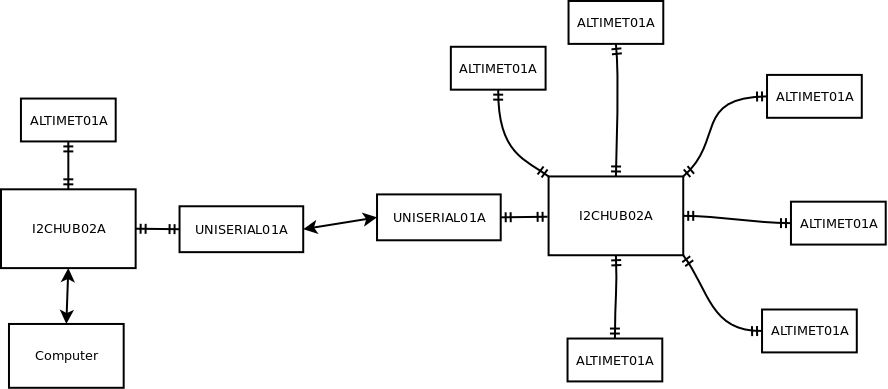
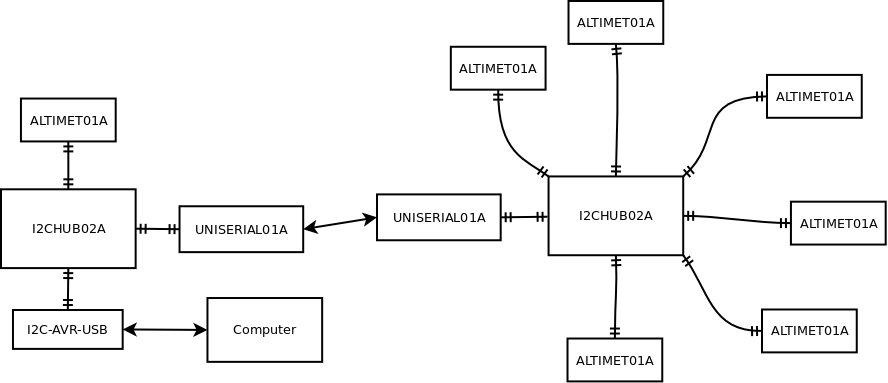
opravy nekterych chyb v nazvech.

diff --git a/Modules/Sensors/ALTIMET01A/DOC/SRC/testing.cs.tex b/Modules/Sensors/ALTIMET01A/DOC/SRC/testing.cs.tex
@@ -36,7 +36,7 @@ Při realizaci projektu ABL01A bylo zjištěno, že snímání tlaku z čidla MP
 
 \section{Popis konstrukce}
 
-Realizace testovacího systému pro čidlo MPL3115A2 využívá modulu I2CHUB02A, který umožňuje testování více čidel najednou. Čidla jsou tak společně umístěna ve vakuovém zvonu s řízeným tlakem a naměřené tlaky jsou společně s teplotami vyčítány I$^2$C sběrnici. Sběrnice I$^2$C byla z řídícího počítače vyvedena přes převodník USB-AVR-i2c. 
+Realizace testovacího systému pro čidlo MPL3115A2 využívá modulu I2CHUB02A, který umožňuje testování více čidel najednou. Čidla jsou tak společně umístěna ve vakuovém zvonu s řízeným tlakem a naměřené tlaky jsou společně s teplotami vyčítány I$^2$C sběrnici. Sběrnice I$^2$C byla z řídícího počítače vyvedena přes převodník i2c-avr-USB \cite{i2c-avr-USB}. 
 Paralelně k hodnotám získaných z modulů ALTIMET je z řídícího počítače ještě vyčítán tlak měřený z referenčního měřícího přístroje DPI 145. 
 
 Měřící přístroj DPI 145 byl do systému zapojen přes rozhraní RS232 za použití převodníku  RS232-USB. Nastavení komunikace je Parity=none, Speed=9600, Handshaking=none. (Způsob nastavení je možné nalézt v návodu k DPI145). 
@@ -112,12 +112,14 @@ Data jsou přijata ve formě stringu. Pro získání numerické proměnné by by
 
 \subsection{Systém sběru dat z tlakových čidel}
 
-Pro testování modulu ALTIMET01A s tlakovým čidlem MPL3115A2 byl vytvořen testovací přípravek využívající I2C a převodník USB-avr-i2c. Měřící systém byl ovládán skriptem napsaným v jazyce Python spouštěném na linuxovém počítači.  
+Pro testování modulu ALTIMET01A s tlakovým čidlem MPL3115A2 byl vytvořen testovací přípravek využívající I2C a převodník i2c-avr-USB. Měřící systém byl ovládán skriptem napsaným v jazyce Python spouštěném na linuxovém počítači.  
 
 \begin{thebibliography}{99}
 \bibitem{MLAB-I2c-modules}{https://github.com/MLAB-project/MLAB-I2c-modules} 
 \href{https://github.com/MLAB-project/MLAB-I2c-modules}{MLAB-I2c-modules}
 \bibitem{data_logger}{svn://svn.mlab.cz/mlab/Modules/Sensors/ALTIMET01A/SW/Python} 
 \href{svn://svn.mlab.cz/mlab/Modules/Sensors/ALTIMET01A/SW/Python}{MLAB-I2c-modules}
+\bibitem{i2c_avr_USB}{http://wiki.mlab.cz/doku.php?id=cs:i2c\_avr\_usb} 
+\href{http://wiki.mlab.cz/doku.php?id=cs:i2c_avr_usb}{i2c-avr-USB}
 \end{thebibliography}
 \end{document}
